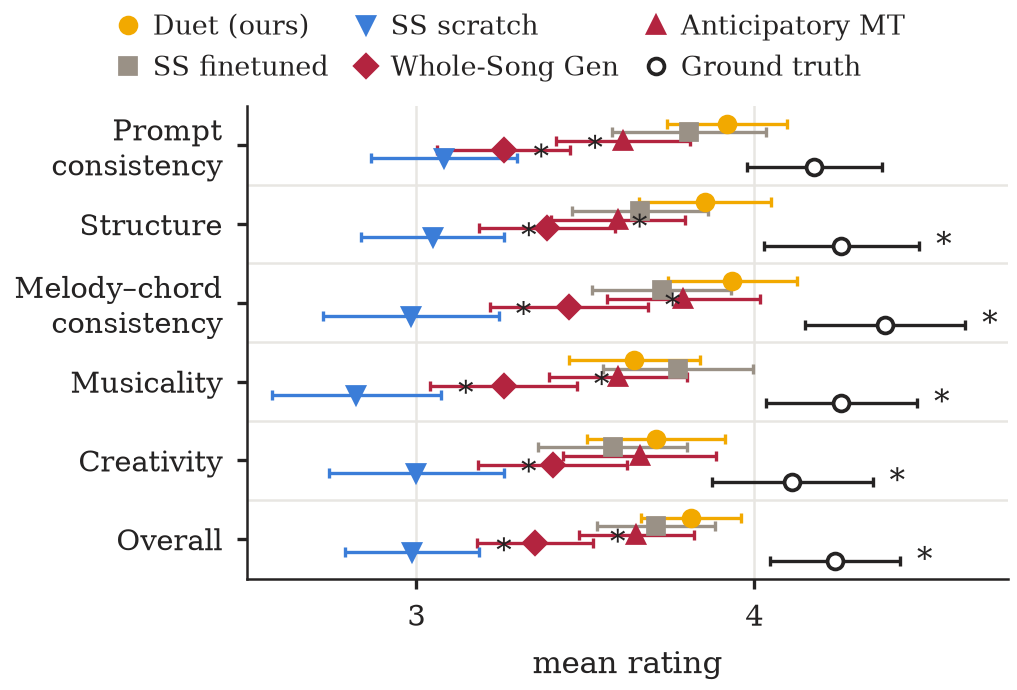
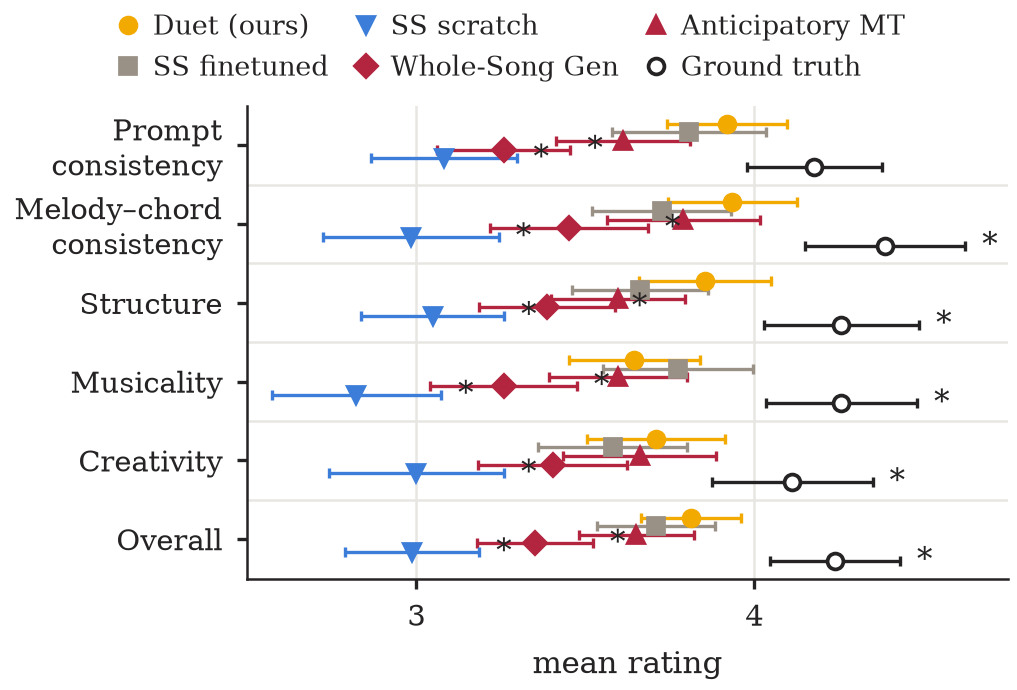
Subjective figure: melody-chord consistency row before structure
Claude-Session: https://claude.ai/code/session_012w7PFbJyWP4meVE3CJpfno

diff --git a/midi_yinyang/figures/plot_subjective_compact.py b/midi_yinyang/figures/plot_subjective_compact.py
@@ -29,7 +29,10 @@ sys.path.insert(0, _ROOT)
 from subjective_anova import AXES, SYSTEMS, load, matrix, holm  # noqa: E402
 from plot_e1_box import FAMILY_COLOR, INK, GRID, SURFACE, FS_TICK, FS_LABEL, FS_LEGEND  # noqa: E402
 
-ROWS = ['Prompt\nconsistency', 'Structure', 'Melody–chord\nconsistency', 'Musicality',
+# row order of the paper's figure (2026-09-24): the two consistency axes
+# first, then structure, musicality, creativity, overall
+ROW_AXES = ['consistency', 'fit', 'structure', 'musicality', 'creativity', 'overall']
+ROWS = ['Prompt\nconsistency', 'Melody–chord\nconsistency', 'Structure', 'Musicality',
         'Creativity', 'Overall']
 # system -> (display, family, marker); ground truth in ink with an open marker
 SYS = {'Duet (alt commit)': ('Duet (ours)', 'Ours', 'o'),
@@ -74,7 +77,7 @@ def main():
     # rows top to bottom; systems stacked within a row, ours on top
     off = (np.arange(k) - (k - 1) / 2) * 0.11
     handles = {}
-    for j, a in enumerate(AXES + ['overall']):
+    for j, a in enumerate(ROW_AXES):
         Y = Ys[a]
         mean, ci = Y.mean(0), within_ci(Y)
         praw = np.array([stats.ttest_rel(Y[:, 0], Y[:, i]).pvalue for i in range(1, k)])
